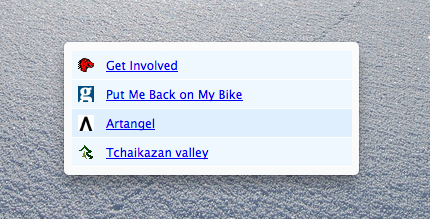
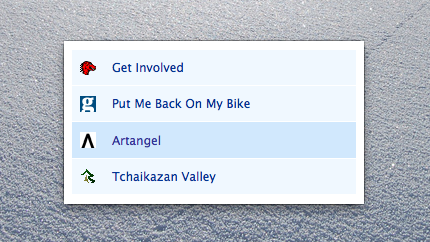
Bug 641950 - Panel screenshots need update; r=myk

diff --git a/packages/addon-kit/docs/panel.md b/packages/addon-kit/docs/panel.md
@@ -19,10 +19,6 @@ and the content remains loaded when a panel is hidden, so it is possible
 to keep a panel around in the background, updating its content as appropriate
 in preparation for the next time it is shown.
 
-Panels can be anchored to a particular element in a DOM window, including both
-chrome elements, i.e. parts of the host application interface, and content
-elements, i.e. parts of a web page in an application tab.
-
 Panels have associated content scripts, which are JavaScript scripts that have
 access to the content loaded into the panels.  An add-on can specify one or
 more content scripts to load for a panel, and the add-on can communicate with
@@ -184,8 +180,9 @@ The message to send.  Must be stringifiable to JSON.
 Displays the panel.
 @param [anchor] {handle}
 A handle to a DOM node in a page to which the panel should appear to be
-connected.  If not given, the panel is centered inside the most recent browser
-window.
+anchored.  If not given, the panel is centered inside the most recent browser
+window. Note that it is not currently possible to anchor panels in this way
+using only the high level APIs.
 </api>
 
 <api name="hide">

diff --git a/static-files/md/dev-guide/addon-development/api-modules.md b/static-files/md/dev-guide/addon-development/api-modules.md
@@ -55,10 +55,10 @@ alt="Mozilla widget icon">
 
 To simplify your code in the latter case, you can assign a panel object to
 your widget. Then when the user clicks the widget, the widget will display
-the panel anchored to the widget. The `reddit-panel` example demonstrates this:
+the panel anchored to the widget:
 
-<img class="image-center" src="media/screenshots/modules/reddit-panel-osx.png"
-alt="Reddit panel">
+<img class="image-center" src="media/screenshots/modules/widget-panel-osx.png"
+alt="Panel anchored to widget">
 <br>
 
 ### [context-menu](packages/addon-kit/docs/context-menu.html) ###
